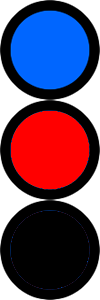
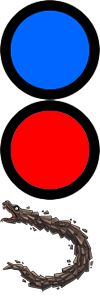
new snakes?

Changed region(s): [[0.0, 0.66, 1.0, 1.0]]

diff --git a/js/script.js b/js/script.js
@@ -10,92 +10,92 @@ var snakeanimations = {
 		imageURL: "img/bigtail.png",
 		numberOfFrame: 1,
 		delta: 100,
-		rate: 1,
+		rate: 0,
 		type: $.gameQuery.ANIMATION_VERTICAL
 	}),
 	'bighead' : new $.gameQuery.Animation({ 
 		imageURL: "img/bighead.png",
 		numberOfFrame: 1,
 		delta: 100,
-		rate: 1,
+		rate: 0,
 		type: $.gameQuery.ANIMATION_VERTICAL
 	}),
 	'bigbody' : new $.gameQuery.Animation({ 
 		imageURL: "img/bigbody.png",
 		numberOfFrame: 1,
 		delta: 100,
-		rate: 1,
+		rate: 0,
 		type: $.gameQuery.ANIMATION_VERTICAL
 	}),
 	'water' : new $.gameQuery.Animation({ 
-		imageURL: "img/singles.png",
+		imageURL: "img/snakes.png",
 		numberOfFrame: 1,
 		delta: 100,
-		rate: 150+Math.floor(Math.random()*10),
+		rate: 0,
 		offsety: 0*100,
 		type: $.gameQuery.ANIMATION_HORIZONTAL
 	}),
 	'fire' : new $.gameQuery.Animation({ 
-		imageURL: "img/singles.png",
+		imageURL: "img/snakes.png",
 		numberOfFrame: 1,
 		delta: 100,
-		rate: 150+Math.floor(Math.random()*10),
+		rate: 0,
 		offsety: 1*100,
 		type: $.gameQuery.ANIMATION_HORIZONTAL
 	}),
 	'earth' : new $.gameQuery.Animation({ 
-		imageURL: "img/singles.png",
+		imageURL: "img/snakes.png",
 		numberOfFrame: 1,
 		delta: 100,
-		rate: 150+Math.floor(Math.random()*10),
+		rate: 0,
 		offsety: 2*100,
 		type: $.gameQuery.ANIMATION_HORIZONTAL
 	}),
 	'waterwater' : new $.gameQuery.Animation({ 
-		imageURL: "img/doubles.png",
+		imageURL: "img/snakes.png",
 		numberOfFrame: 1,
 		delta: 100,
-		rate: 150+Math.floor(Math.random()*10),
+		rate: 0,
 		offsety: 0*100,
 		type: $.gameQuery.ANIMATION_HORIZONTAL
 	}),
 	'waterfire' : new $.gameQuery.Animation({ 
-		imageURL: "img/doubles.png",
+		imageURL: "img/snakes.png",
 		numberOfFrame: 1,
 		delta: 100,
-		rate: 150+Math.floor(Math.random()*10),
+		rate: 0,
 		offsety: 1*100,
 		type: $.gameQuery.ANIMATION_HORIZONTAL
 	}),
 	'earthwater' : new $.gameQuery.Animation({ 
-		imageURL: "img/doubles.png",
+		imageURL: "img/snakes.png",
 		numberOfFrame: 1,
 		delta: 100,
-		rate: 150+Math.floor(Math.random()*10),
+		rate: 0,
 		offsety: 2*100,
 		type: $.gameQuery.ANIMATION_HORIZONTAL
 	}),
 	'firefire' : new $.gameQuery.Animation({ 
-		imageURL: "img/doubles.png",
+		imageURL: "img/snakes.png",
 		numberOfFrame: 1,
 		delta: 100,
-		rate: 150+Math.floor(Math.random()*10),
+		rate: 0,
 		offsety: 3*100,
 		type: $.gameQuery.ANIMATION_HORIZONTAL
 	}),
 	'earthfire' : new $.gameQuery.Animation({ 
-		imageURL: "img/doubles.png",
+		imageURL: "img/snakes.png",
 		numberOfFrame: 1,
 		delta: 100,
-		rate: 150+Math.floor(Math.random()*10),
+		rate: 0,
 		offsety: 4*100,
 		type: $.gameQuery.ANIMATION_HORIZONTAL
 	}),
 	'earthearth' : new $.gameQuery.Animation({ 
-		imageURL: "img/doubles.png",
+		imageURL: "img/snakes.png",
 		numberOfFrame: 1,
 		delta: 100,
-		rate: 150+Math.floor(Math.random()*10),
+		rate: 0,
 		offsety: 5*100,
 		type: $.gameQuery.ANIMATION_HORIZONTAL
 	}),
@@ -247,6 +247,7 @@ $(document).ready(function(){
 			// save it for next click swap
 			snakeToSwap = $(this).attr("rel");
 			setSnakeScaledRotation(snakeToSwap, 2.0);
+			$(this).addClass("selected");
 		}
 		else
 		{
@@ -259,6 +260,7 @@ $(document).ready(function(){
 			
 			setSnakeRotation(thisIdx);
 			setSnakeRotation(snakeToSwap);
+			$(".tile.selected").removeClass();
 
 			RebuildRing();
 			snakeToSwap = -1;

diff --git a/css/style.css b/css/style.css
@@ -231,7 +231,13 @@ h1 {
 	overflow: hidden;
 	
 }
-
+.tile.selected {
+	z-index: 9999;
+	opacity: 1;
+}
+.tile {
+	opacity: .8;
+}
 
 
 
